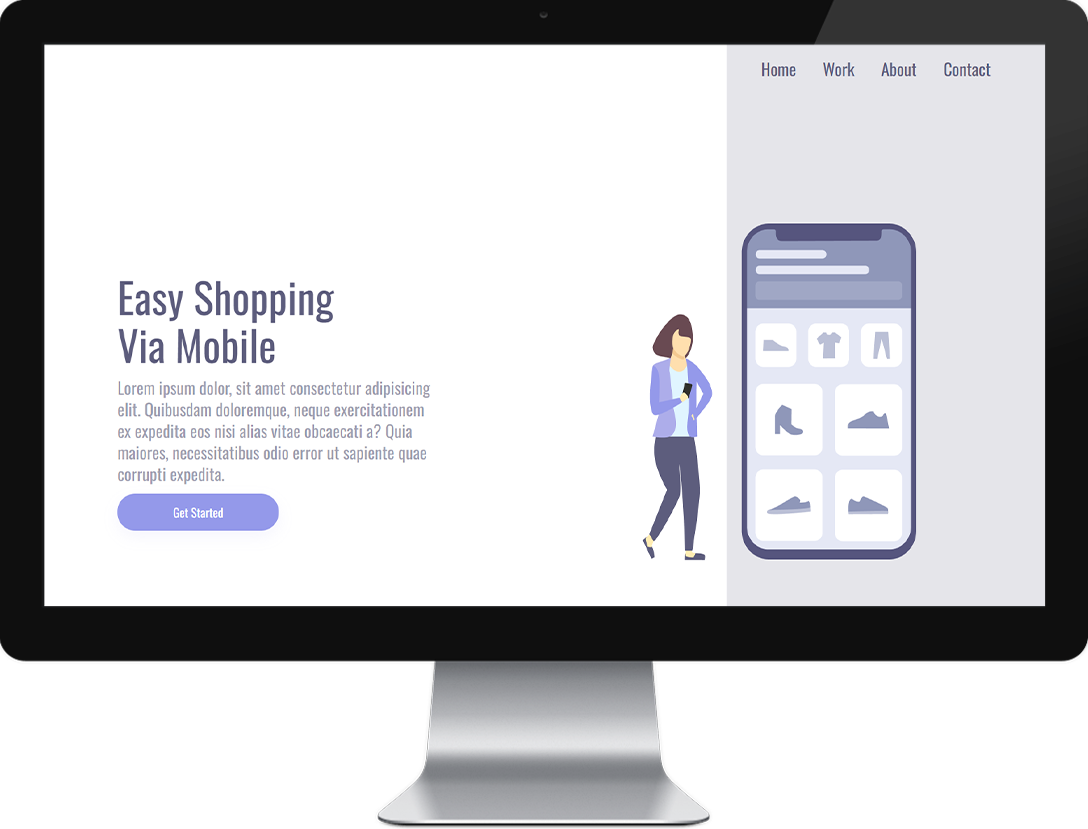
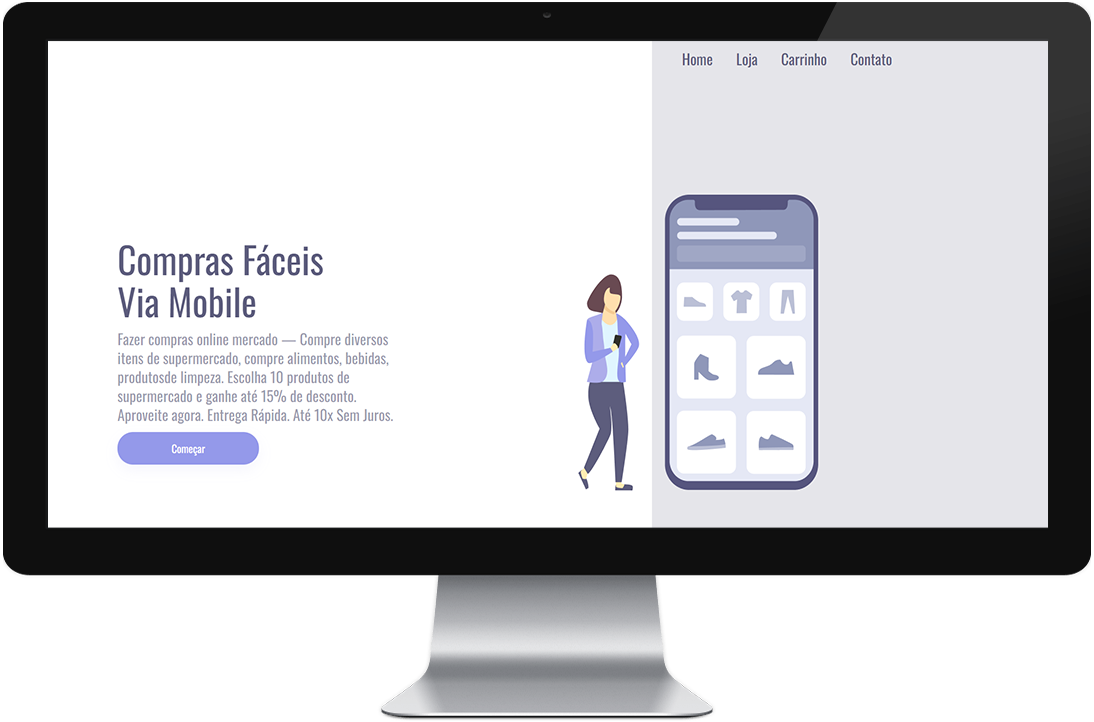
alterando imagens no img

diff --git a/styles.css b/styles.css
@@ -114,8 +114,14 @@ button:active {
         margin: 0px;
     }
 
+    img{
+        position: absolute;
+        bottom: 0;
+    }
+
     .img {
-        position: static;
+        position: absolute;
+        bottom: 0;
         max-width: 90%;
         margin: 0 auto;
         display: block;
